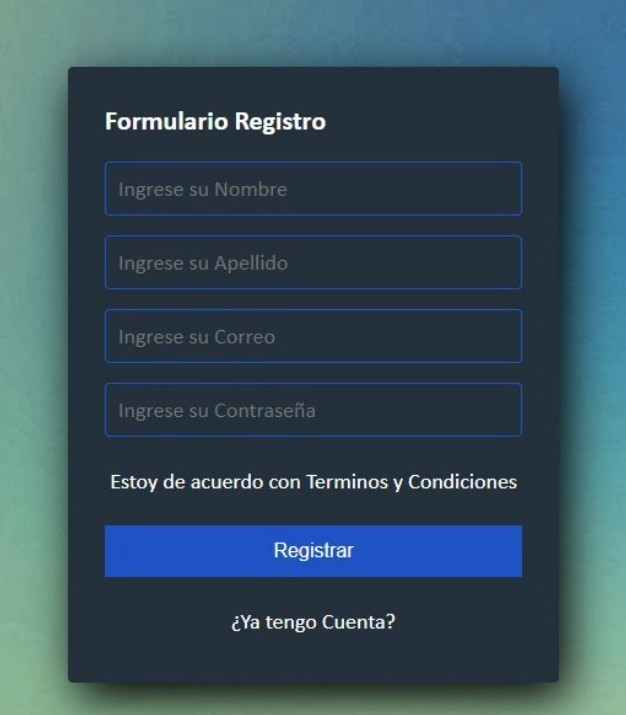
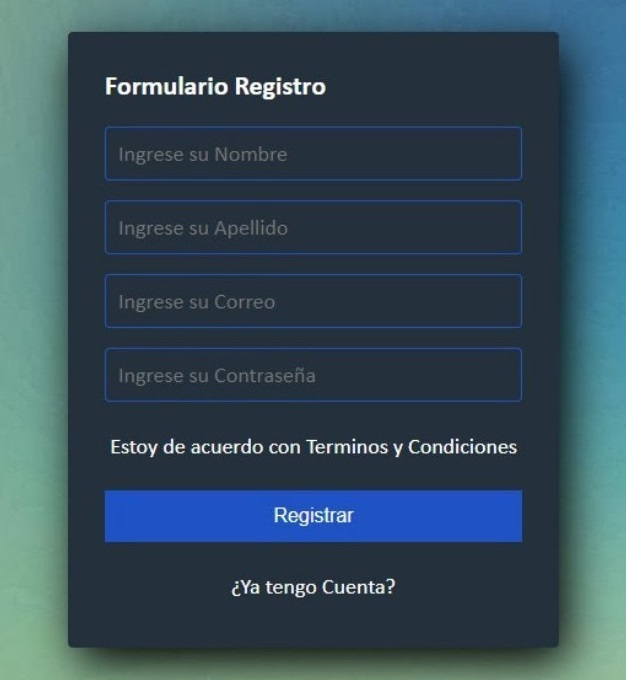
Imagenes
cambio en imágenes y estilos

diff --git a/css/estilo.css b/css/estilo.css
@@ -1,64 +1,91 @@
 * {
-    margin: 0px;
-    padding: 0px;    
+  margin: 0px;
+  padding: 0px;
 }
 
 body {
-    background-color: rgb(36, 48, 60);
-    display: flex;
+  background-color: rgb(36, 48, 60);
+  background-image: url(../img/formu.jpg);
+  background-repeat: no-repeat;
+  background-position: top right;
+  background-attachment: fixed;
+  background-size: 40% 100vh;
 }
 
-.img {
-    width: 45vw;
-    height: 100vh;
-    display: flex;
-    justify-content: center;
+.txt {
+  color: white;
+  font-family: Verdana;
+  text-align: center;
+  width: 59vw;
+  height: 90vh;
+  animation-duration: 2s;
+  animation-name: slidein;
 }
 
-#imagen {
+@keyframes slidein {
+  from {
+    margin-left: 100%;
+    width: 300%;
+  }
+
+  to {
+    margin-left: 0%;
     width: 100%;
-}
-
-.txt {    
-    color: white;
-    font-family: Verdana;
-    text-align: center;
+  }
 }
 
 .txt h1 {
-    margin-top: 2rem;
+  margin-top: 2rem;
 }
 
 .txt h2 {
-    margin-top: 1rem;
-    margin-bottom: 1rem;
+  margin-top: 1rem;
+  margin-bottom: 1rem;
 }
 
 .centrado {
-    position: relative;
-    top: 9vh;
-    color: rgba(53, 50, 220, 0.8);;
+  position: relative;
+  top: 0vh;
+  height: 7vh;
+  color: rgba(53, 50, 220, 0.8);
 }
 
 .link {
-    width: 100%;
-    height: 70%;
-    display: flex;
-    flex-wrap: wrap;
+  width: 58vw;
+  height: 76vh;
+  display: flex;
+  flex-wrap: wrap;
+  animation-duration: 3s;
+  animation-name: slidein;
 }
 
-.link a{
-    flex: 1 1 auto;
-    width: 25%;
-    height: 30%;
-    margin: 15px; 
-    color: rgb(255, 255, 255);
-    text-decoration: none;
-    background-color: rgba(142, 233, 190, 0.6);
-    outline: 5px ridge rgba(53, 50, 220, 0.6);
-    border-radius: 2rem;   
+@keyframes slidein {
+  from {
+    margin-left: 100%;
+    width: 300%;
+  }
+
+  to {
+    margin-left: 0%;
+    width: 100%;
+  }
+}
+
+.link a {
+  flex: 1 1 auto;
+  width: 15vw;
+  height: 17vh;
+  margin: 15px;
+  color: #414a4e;
+  text-decoration: none;
+  background-color: #76ac95;
+  outline: 5px ridge #1f52c5;
+  border-radius: 2rem;
 }
 
 .link a:hover {
-    background-color: rgba(0, 255, 255, 0.8);
+  color: #c4cfff;
+  font-size: 1.2rem;
+  background-color: #1f52c5;
+  outline: 5px ridge #76ac95;
 }
